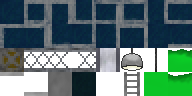
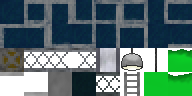
Added new tile

Changed region(s): [[0.5, 0.75, 0.625, 1.0]]

diff --git a/source/level.py b/source/level.py
@@ -330,20 +330,20 @@ class Level:
 
             if tile_data['type'] == "Entity":
 
-                if tile_data['tile'] == 33:
+                if tile_data['tile'] == 34:
                     self.create_keypad((position[0]*24)+6, (position[1]*24)+5)
 
-                elif tile_data['tile'] == 32:
+                elif tile_data['tile'] == 33:
                     self.door_no += 1
                     self.create_door(position[0]*24, position[1]*24)
 
-                elif tile_data['tile'] == 30:
+                elif tile_data['tile'] == 31:
                     self.create_guard(position[0]*24, (position[1]*24)-24)
 
-                elif tile_data['tile'] == 34:
+                elif tile_data['tile'] == 35:
                     self.create_bomb(position[0]*24, position[1]*24)
 
-                elif tile_data['tile'] == 35:
+                elif tile_data['tile'] == 36:
                     self.create_hguard(position[0]*24, (position[1]*24)-24)
 
             elif tile_data['type'] == "Solid":

diff --git a/source/terrain.py b/source/terrain.py
@@ -17,8 +17,9 @@ class LevelData:
                    13619151, 14671839, 15724527, 16488,
                    38143, 13429247, 10081535, 16776960,
                    11776768, 65320, 2672680, 60159, 24027,
-                   16793, 11110, 460551, 12517631, 16711680,
-                   5635840, 255, 16727808, 6502, 6691072]
+                   16793, 11110, 460551, 16173544, 12517631,
+                   16711680, 5635840, 255, 16727808, 6502,
+                   6691072]
     type_colors = [0, 986895, 2039583, 3092271]
 
     def __init__(self, savefile, loadfile1, loadfile2, level):

diff --git a/source/platforms.py b/source/platforms.py
@@ -33,6 +33,7 @@ VENT_BOTTOM = (0, 72, 24, 4)
 VENT_TOP = (24, 92, 24, 4)
 VENT = (48, 72, 24, 24)
 BACKGROUND = (72, 72, 24, 24)
+BACKGROUND_GIRDER = (96, 72, 24, 24)
 
 platforms = (
     GROUND1, GROUND2, GROUND3, GROUND4, GROUND5,
@@ -40,7 +41,7 @@ platforms = (
     GROUND11, GROUND12, GROUND13, GROUND14, GROUND15,
     GROUND16, CRATE, GIRDER1, GIRDER2, GIRDER3,
     LAMP, CHAIN, ACID_TOP, ACID, LADDER, VENT_TOP,
-    VENT_BOTTOM, VENT, BACKGROUND
+    VENT_BOTTOM, VENT, BACKGROUND, BACKGROUND_GIRDER
 )
 
 
